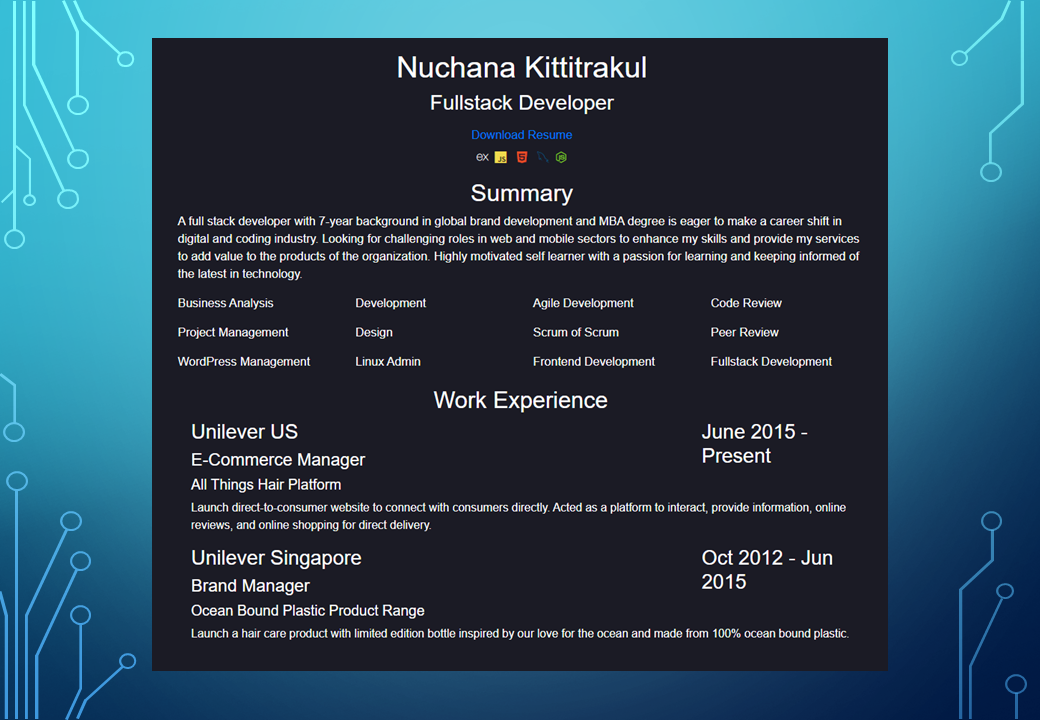
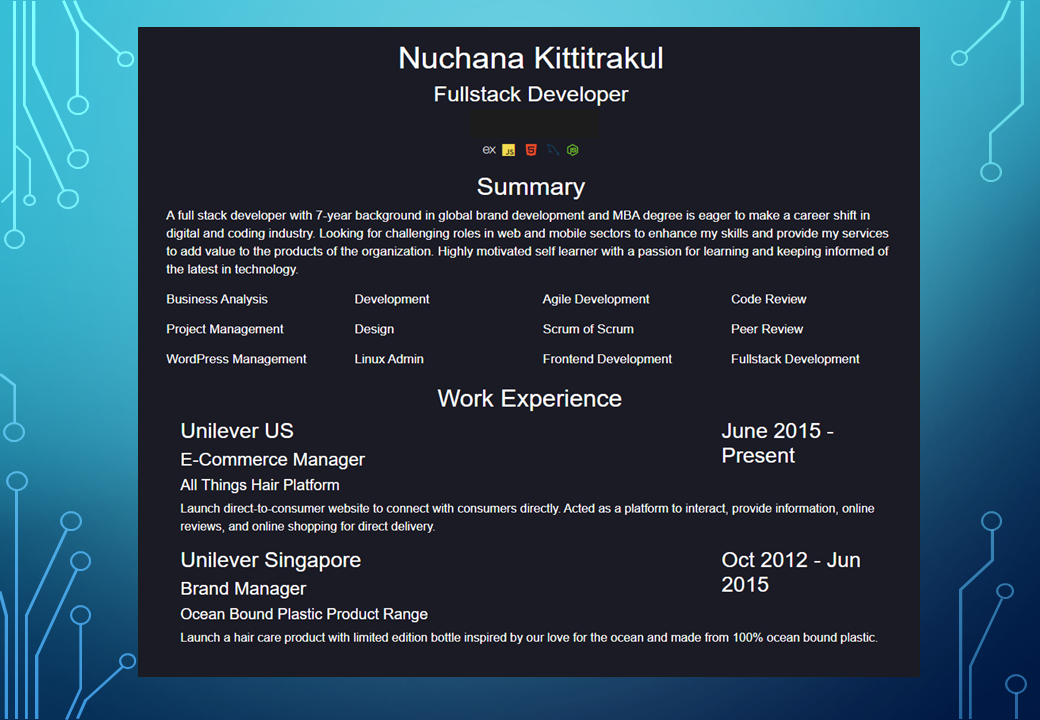
update all install bootstrap etc.

Changed region(s): [[0.1231, 0.0306, 0.8923, 0.9472], [0.3385, 0.3972, 0.6462, 0.5806], [0.6769, 0.5806, 0.8, 0.6417]]

diff --git a/src/pages/Home.js b/src/pages/Home.js
@@ -10,8 +10,8 @@ class Home extends Component {
                     <div className="container col-lg-12">
                         <div className="intro">
                             <h2 className="text-center">About me</h2>
-                            <p className="text-center">Likable and dedicated global marketer turning to a profession web developer with over 7 years of experience in a fast-paced company.
-                        Look for a career shift with eagerness to learn and offer superb analytical and computer skills to help your company grow its client base.</p>
+                            <p className="text-center">Dedicated global marketer turning to a profession web developer with over 7 years of experience in a fast-paced company.
+                            Look for a career shift with eagerness to learn and offer superb analytical and computer skills to help your company grow its client base.</p>
                         </div>
 
                         <div className="row people">
@@ -20,17 +20,17 @@ class Home extends Component {
                             <div className="col-md-6 col-lg-4 item">
                                 <div className="box">
                                     <div id="profile">
-                                        <img className="rounded-circle" alt="headshot" src="./public/NK photo.png"></img>
+                                        <img className="rounded-circle" alt="headshot" src="/public/NK photo.png"></img>
 
                                     </div>
                                     <div id="text1">
                                         <h3 className="name">Nuchana Kittitrakul</h3>
                                         <p className="title">A full-stack developer</p>
                                         <p className="description">7-year background in global brand development and MBA degree is eager
-                                        to make a career shift in digital and coding industry.
-                                        Looking for challenging roles in web and mobile sectors to enhance my skills and
-                                        provide my services to add value to the products of the organization. Highly motivated self
-                                        learner with a passion for learning and keeping informed of the latest in technology </p>
+                                        to make a career shift in digital and coding industry.Highly motivated self
+                                        learner with a passion for learning and keeping informed of the latest in technology.</p>
+                                        <p> Looking for challenging roles in e-commerce and consumer marketing sectors to enhance my skills and
+                                        provide my services to add value to the products of the organization.  </p>
                                         
                                         
                                     </div>

diff --git a/src/components/Footer.js b/src/components/Footer.js
@@ -1,11 +1,11 @@
-import React, { Component } from "React";
+import React, { Component } from "react";
 
 class Footer extends Component {
     render() {
         return (
-            <div style= {{textAlign:"center", width: "100%"}}>
+            <div style= {{textAlign:"center", width: "100%", height:"50px", background:"lightblue"}}>
                 <hr />
-                <span style={{ color: "blue" }}>© Copyright 2020</span>
+                <span style={{ color: "gray" }}>© Copyright 2020</span>
 
             </div >
         );

diff --git a/src/components/Navbar.js b/src/components/Navbar.js
@@ -6,7 +6,7 @@ class Navbar extends Component {
     render() {
         return (
             <div>
-                <ol className="breadcrumb" style={{ display: "inline-block", width: "100%" }}>
+                <ol className="breadcrumb" style={{ display: "inline-block", width: "100%", background: "lightblue" }}>
                     <a href="/"><b className="name">Nuchana Kittitrakul</b></a>
                     <div className="float-right">
                         <NavLink exact to="/" activeClassName="active">Home</NavLink>

diff --git a/src/index.js b/src/index.js
@@ -3,6 +3,8 @@ import ReactDOM from 'react-dom';
 import './index.css';
 import App from './App';
 import reportWebVitals from './reportWebVitals';
+import 'bootstrap/dist/css/bootstrap.min.css';
+import '@fortawesome/fontawesome-free/css/all.css';
 
 ReactDOM.render(
   <React.StrictMode>

diff --git a/src/pages/CV.js b/src/pages/CV.js
@@ -1,5 +1,5 @@
 import React, { Component } from 'react';
-import './pages.cv.css';
+import "./cv.css"
 
 class Resume extends Component {
 
